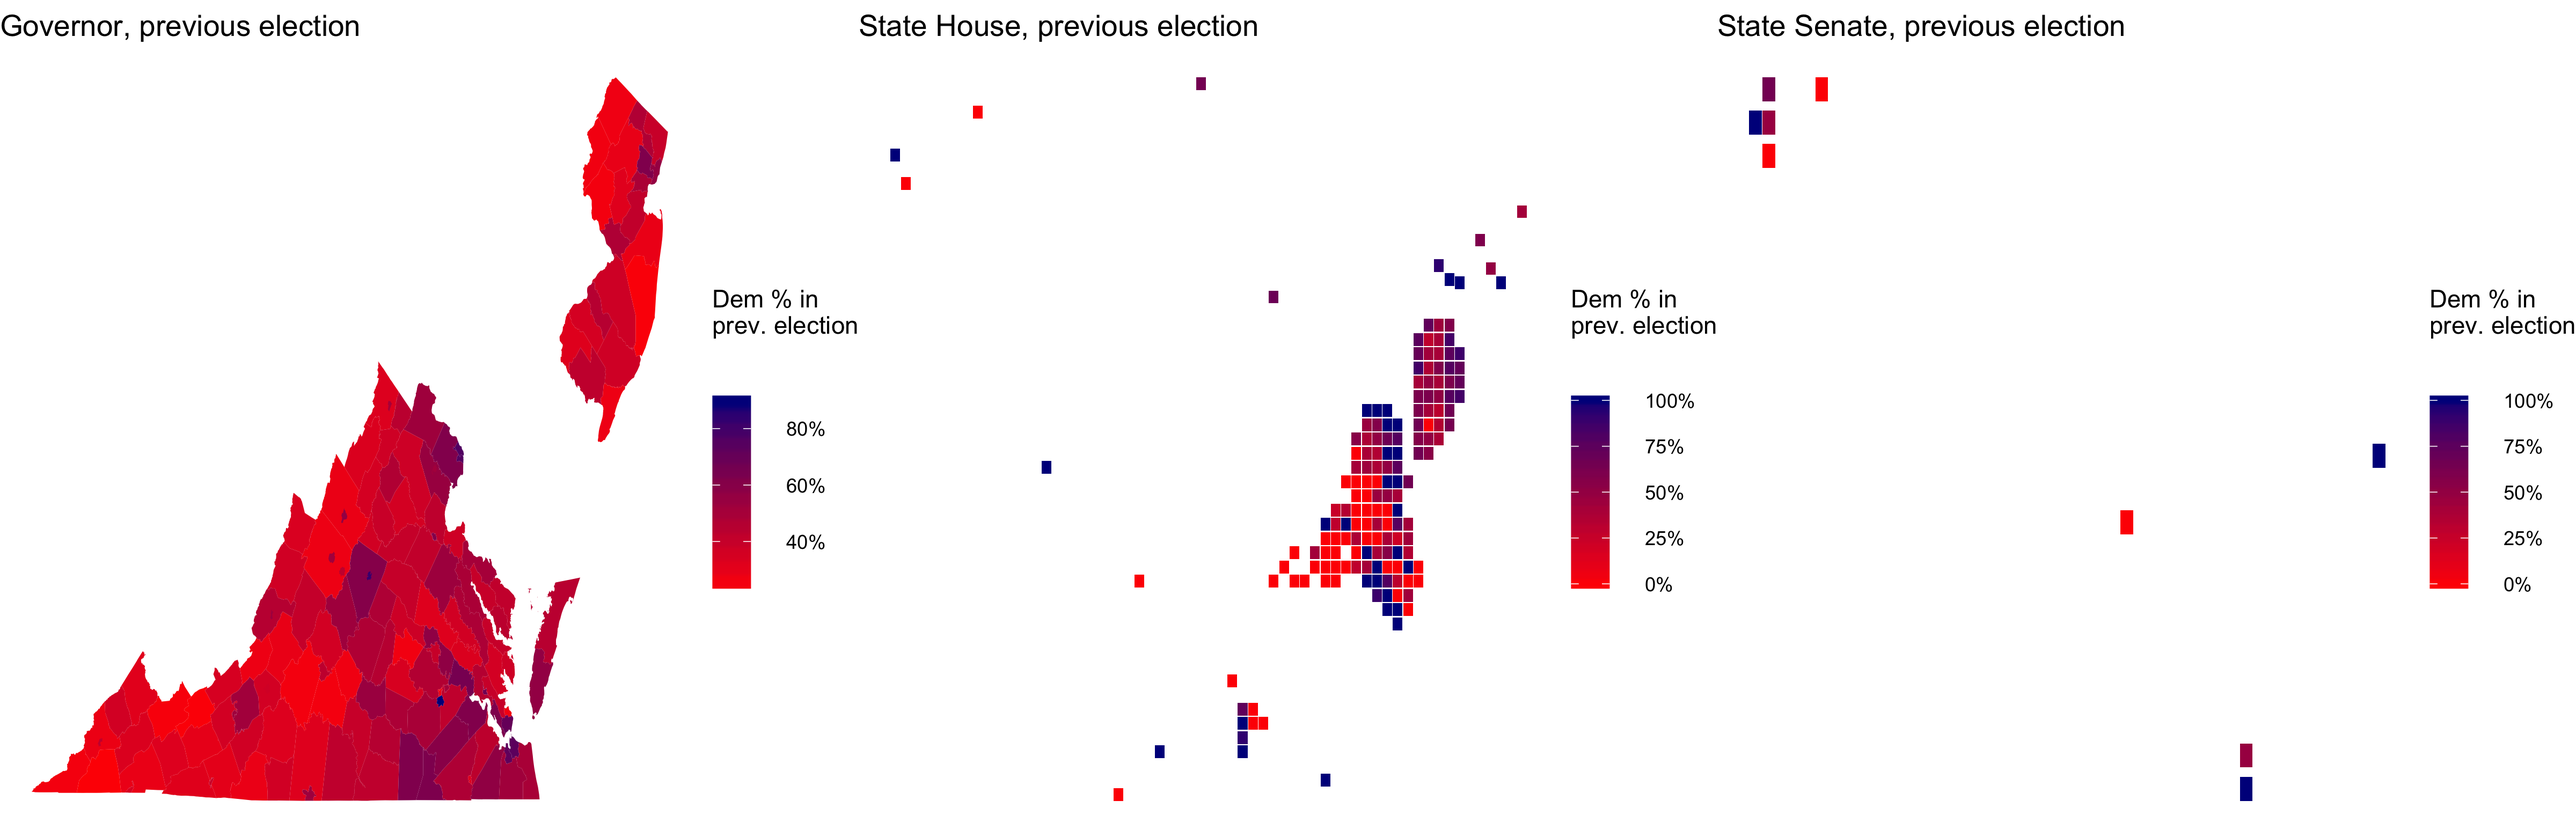
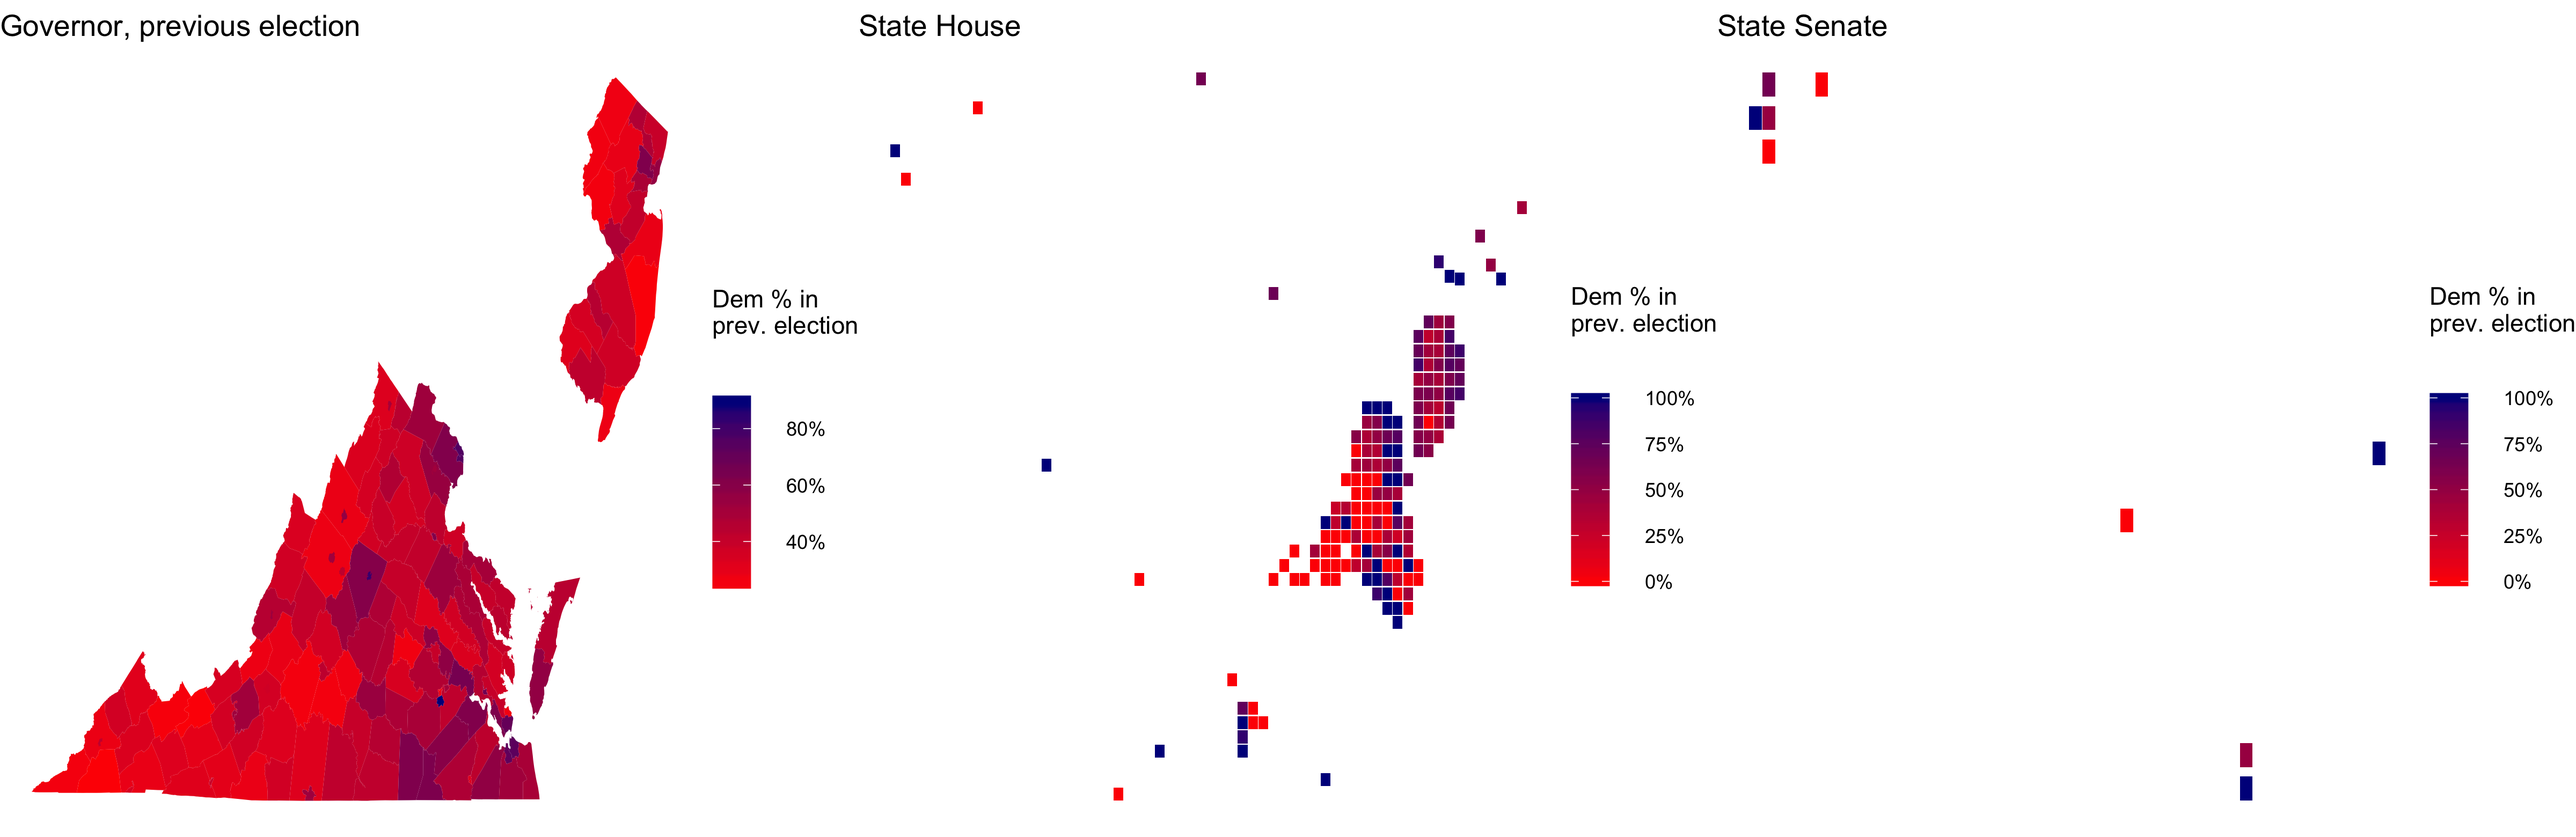
ed t

diff --git a/_posts/2017-11-07-election_tracker.md b/_posts/2017-11-07-election_tracker.md
@@ -16,10 +16,18 @@ On this page, I am tracking election results for the State House, State Senate/S
 
 
 
-![plot of chunk unnamed-chunk-3](figure/unnamed-chunk-3-1.png)
+### Tonight's results
 
-![plot of chunk unnamed-chunk-4](figure/unnamed-chunk-4-1.png)
+![plot of chunk unnamed-chunk-149](figure/unnamed-chunk-149-1.png)
 
-![plot of chunk unnamed-chunk-5](figure/unnamed-chunk-5-1.png)
+### Results from these districts' previous elections
 
-![plot of chunk unnamed-chunk-6](figure/unnamed-chunk-6-1.png)
+![plot of chunk unnamed-chunk-150](figure/unnamed-chunk-150-1.png)
+
+### Tonight's Dem - Rep margins
+
+![plot of chunk unnamed-chunk-151](figure/unnamed-chunk-151-1.png)
+
+### These districts' previous Dem - Rep margins
+
+![plot of chunk unnamed-chunk-152](figure/unnamed-chunk-152-1.png)

diff --git a/_posts/r_election_tracker.md b/_posts/r_election_tracker.md
@@ -1,9 +1,17 @@
 On this page, I am tracking election results for the State House, State Senate/State Assembly, Governor, and Congressional races going on today.
 
+### Tonight's results
+
 ![](r_election_tracker_files/figure-markdown_github/unnamed-chunk-3-1.png)
+
+### Results from these districts' previous elections
 
 ![](r_election_tracker_files/figure-markdown_github/unnamed-chunk-4-1.png)
 
+### Tonight's Dem - Rep margins
+
 ![](r_election_tracker_files/figure-markdown_github/unnamed-chunk-5-1.png)
+
+### These districts' previous Dem - Rep margins
 
 ![](r_election_tracker_files/figure-markdown_github/unnamed-chunk-6-1.png)
